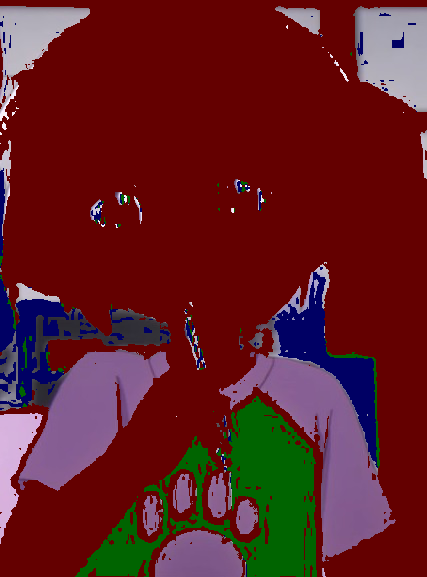
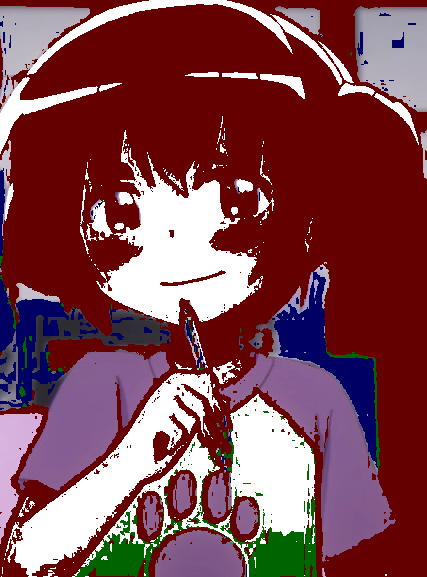
mejora filtro de niveles branco y negro

diff --git a/img_procesing/process.py b/img_procesing/process.py
@@ -9,10 +9,10 @@ print(pix[1,1]) #obtiene los balores en rgb del pixel de la imagen
 img.save('alive_parrot.png')
 for y in range(0, img.size[1]):
     for x in range(0, img.size[0]):
-        if pix[x,y][0]==100 and pix[x,y][1] ==100 and pix[x,y][2]==100:
-            pix[x, y] = (100, 100, 100)
+        if pix[x,y][0]>200 and pix[x,y][1] >200 and pix[x,y][2]>200:
+            pix[x, y] = (256, 256, 256)
         else:
-            if pix[x,y][0]==0 and pix[x,y][1] ==0 and pix[x,y][2]==0:
+            if pix[x,y][0]<30 and pix[x,y][1]<30 and pix[x,y][2]<30:
                 pix[x, y] = (0, 0, 0)
             else:
                 if pix[x, y][0] > pix[x, y][1]:
